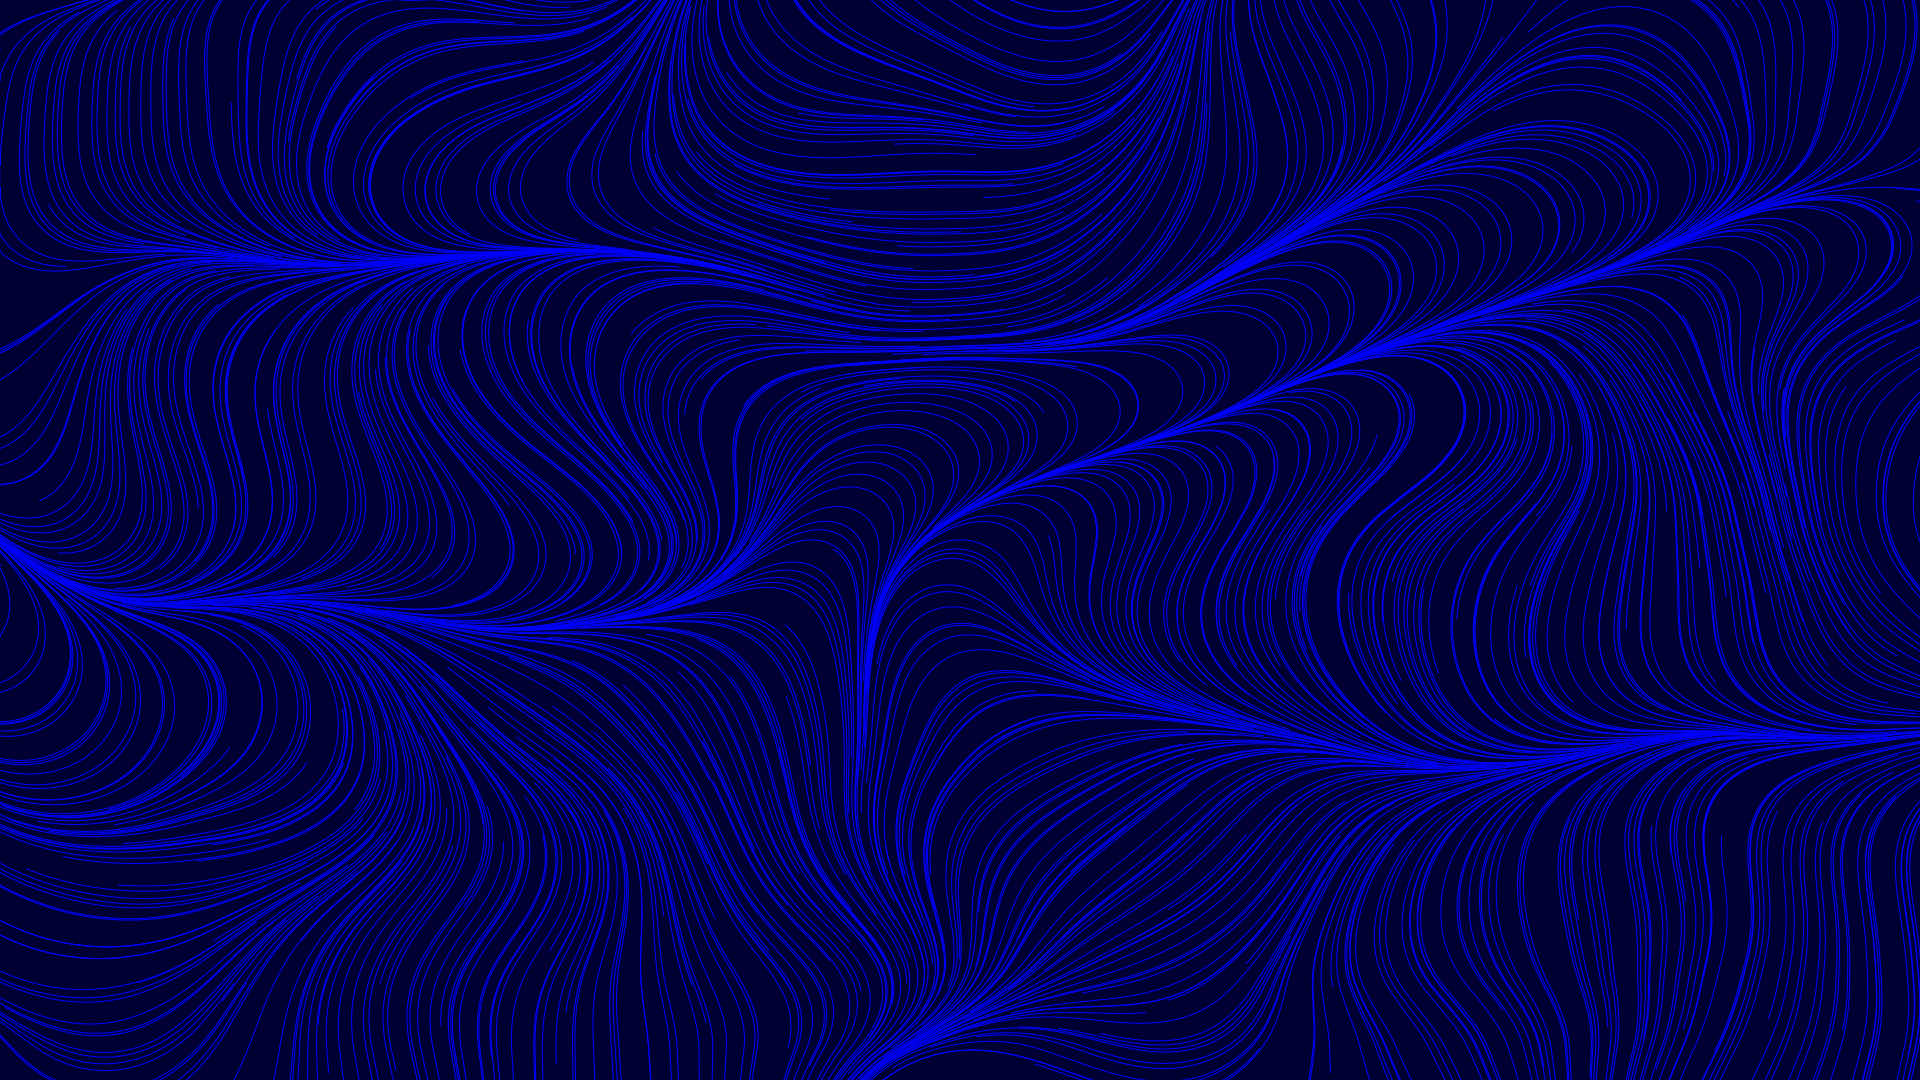
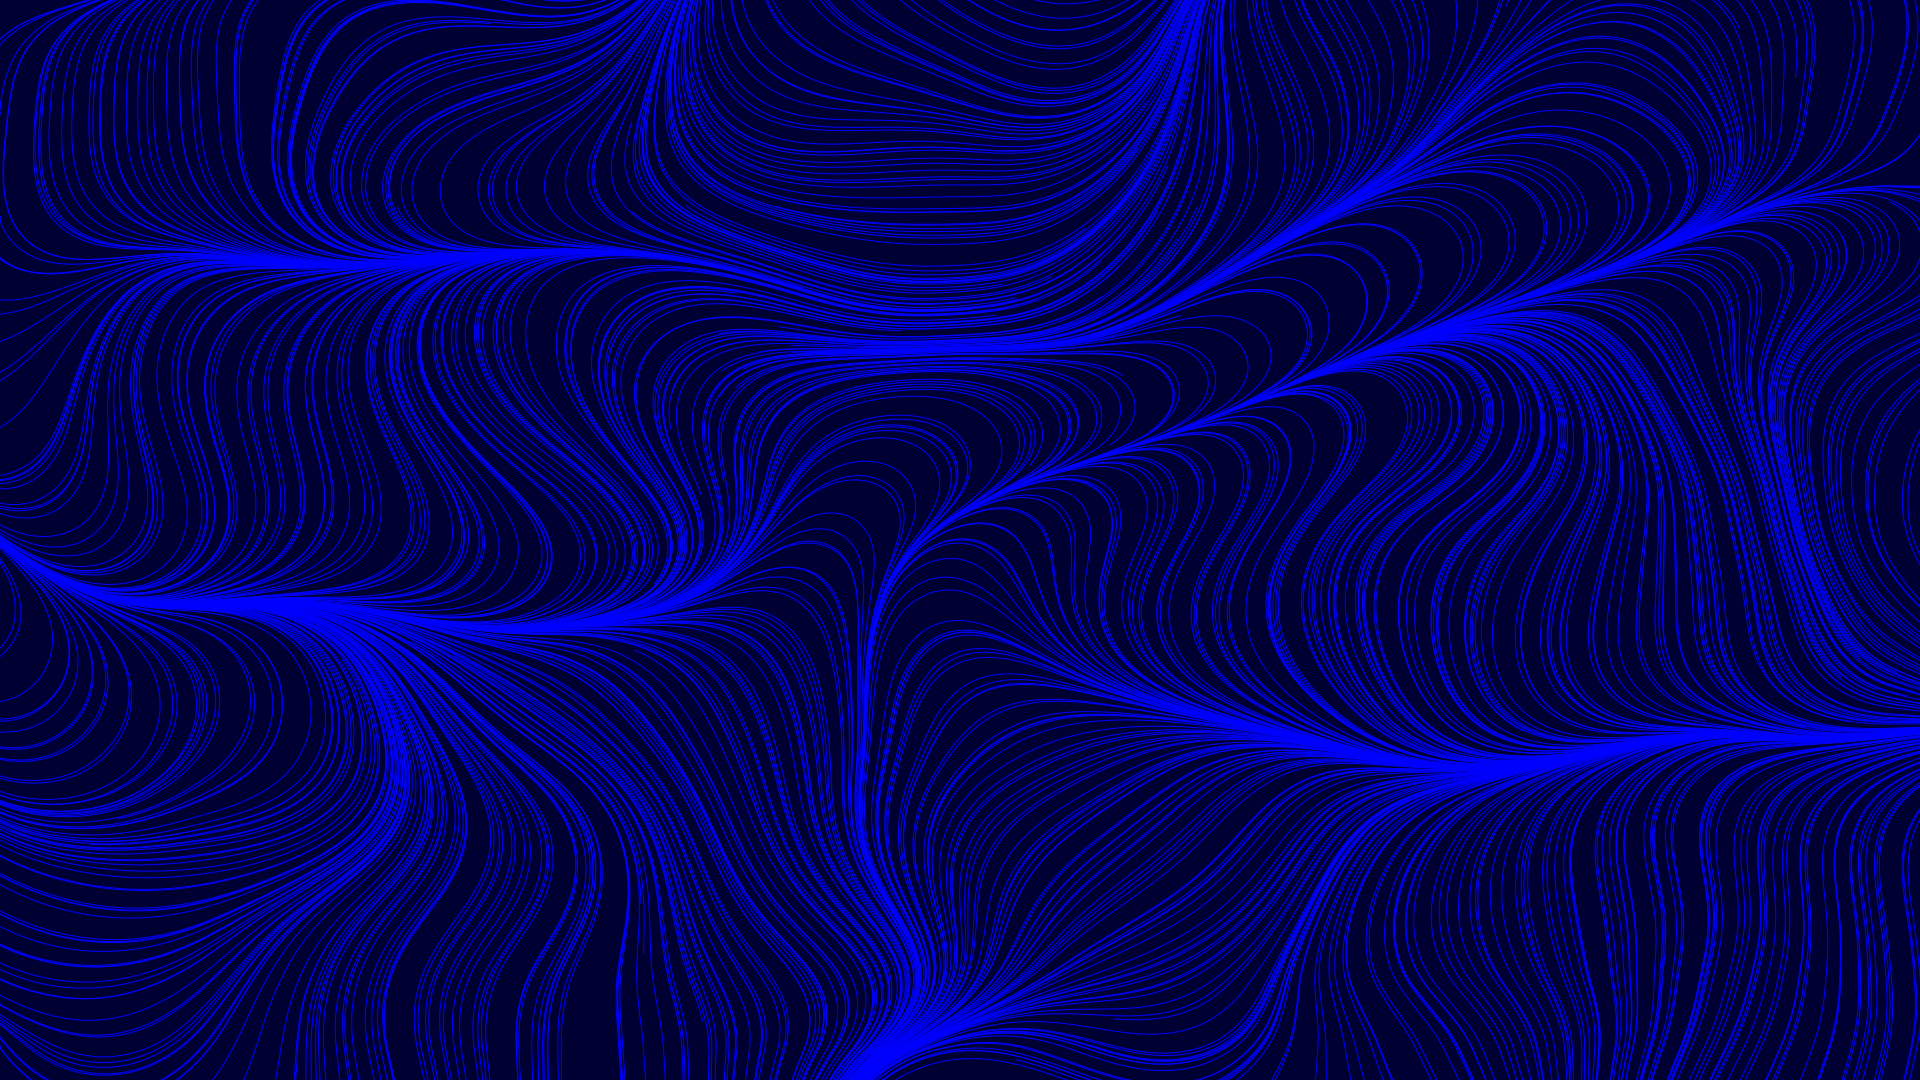
increase step length

diff --git a/main.go b/main.go
@@ -18,7 +18,8 @@ func noiseFormula() core.Formula {
 	}
 }
 
-/* func circleFormula() core.Formula {
+/*
+func circleFormula() core.Formula {
 	return func(vector *vectors.Vector2) *vectors.Vector2 {
 		return vectors.NewVector2(0, -1).Rotate((vector.Y / 20) * math.Pi)
 	}
@@ -28,7 +29,13 @@ func sineFormula() core.Formula {
 	return func(vector *vectors.Vector2) *vectors.Vector2 {
 		return vectors.NewVector2(math.Sin(vector.Y), math.Sin(vector.X))
 	}
-} */
+}
+
+func customFormula() core.Formula {
+	return func(vector *vectors.Vector2) *vectors.Vector2 {
+		return vectors.NewVector2((vector.X*vector.X - vector.Y*vector.Y), vector.X*vector.Y)
+	}
+}*/
 
 func main() {
 	field := core.NewVectorField(1920, 1080, false, noiseFormula())

diff --git a/core/renderer.go b/core/renderer.go
@@ -74,7 +74,7 @@ func DrawSimulation(c *gg.Context, field *VectorField) {
 }
 
 func DrawCurve(c *gg.Context, field *VectorField, x int, y int) {
-	const STEP_LENGTH = 1
+	const STEP_LENGTH = 2
 	const NUM_STEPS = 500
 
 	c.Push()
